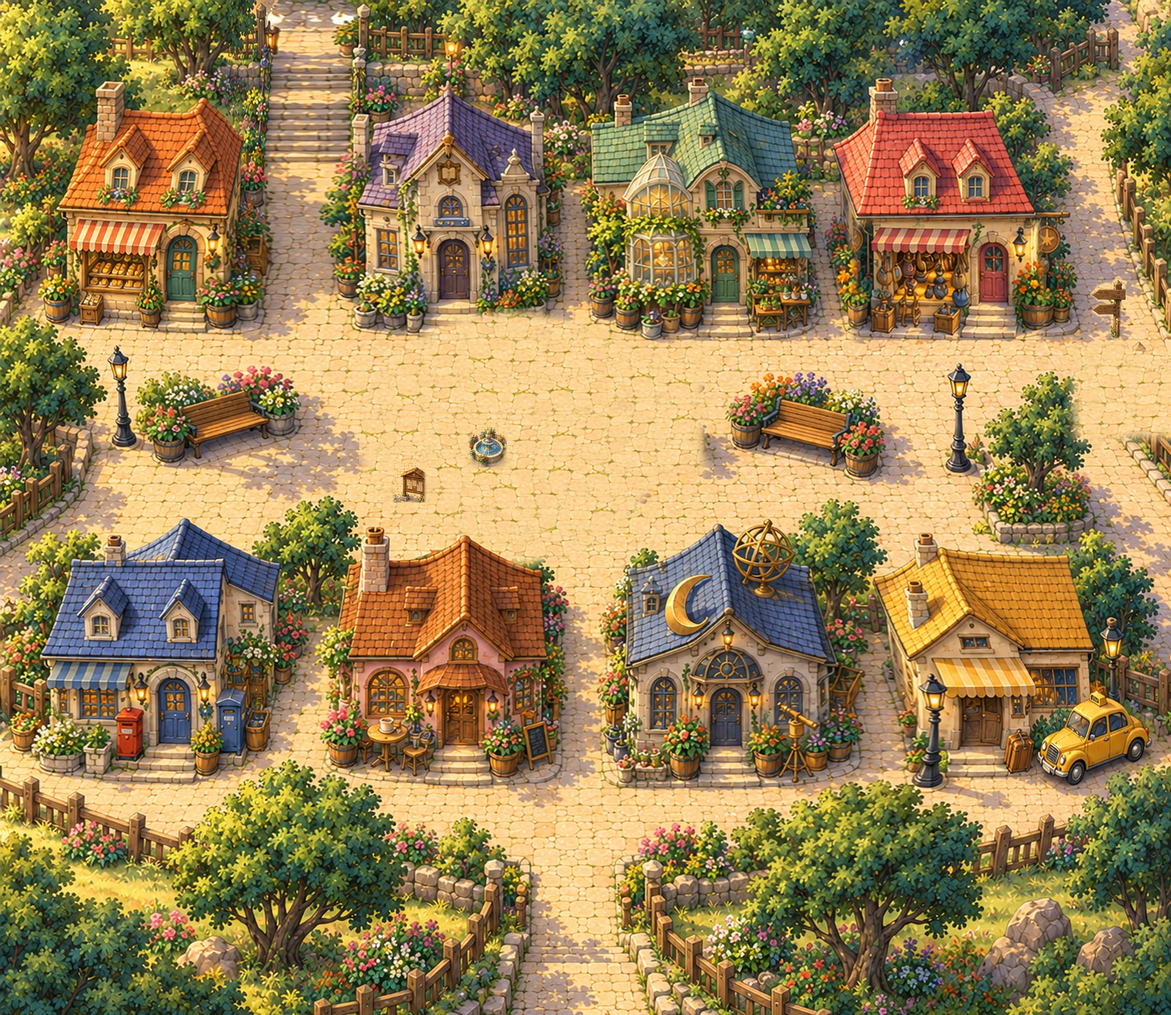
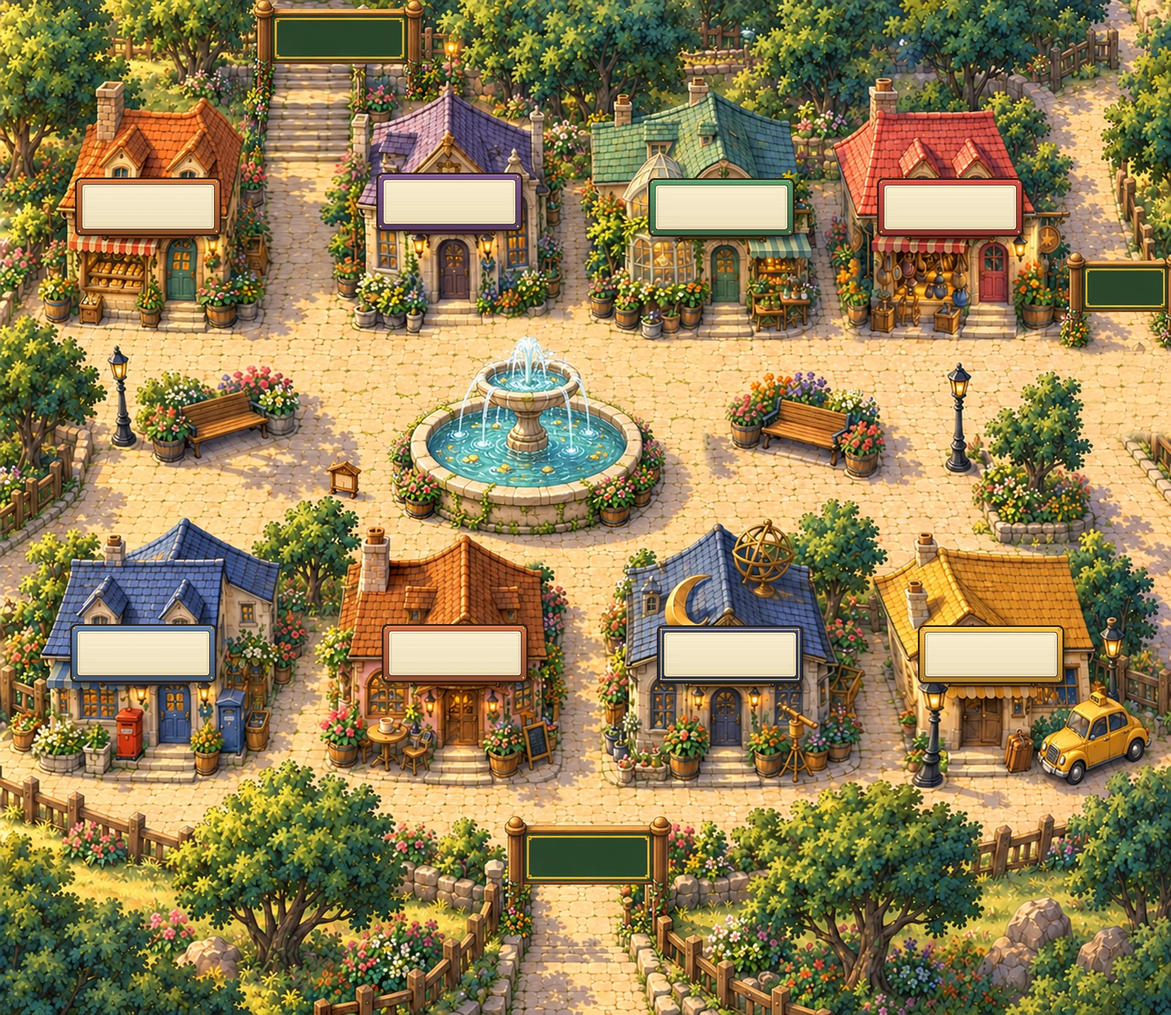
Repaint The Square: lettered signs on every shop and exit, much larger fountain
Claude-Session: https://claude.ai/code/session_01RXeukEbYcVgZLdMoKYXNDk

diff --git a/engine/plate.js b/engine/plate.js
@@ -1,7 +1,7 @@
 'use strict';
 // engine/plate.js — Painted "plate" scenes (32-bit look). A plate replaces the tile/house/object
 // drawing for one map; the tile grid stays as the invisible logic layer (collision, doors, exits, NPCs).
-const PLATES={ town:{src:'art/town.webp',px:64,img:null,ready:false}, row:{src:'art/row.webp',px:64,img:null,ready:false}, hollow:{src:'art/hollow.webp',px:64,img:null,ready:false}, reeds:{src:'art/reeds.webp',px:64,img:null,ready:false}, amyhouse:{src:'art/amyhouse.webp?v=20261030',px:78,img:null,ready:false,square:true,actorScale:1.08}, grands:{src:'art/grands.webp?v=20261030',px:78,img:null,ready:false,square:true}, elliehouse:{src:'art/elliehouse.webp?v=20261030',px:78,img:null,ready:false,square:true,actorScale:1.98}, sundial:{src:'art/sundial.webp',px:64,img:null,ready:false}, school:{src:'art/school.webp',px:64,img:null,ready:false}, cafetorium:{src:'art/cafetorium.webp',px:64,img:null,ready:false}, readroom:{src:'art/readroom.webp',px:64,img:null,ready:false}, stacks:{src:'art/stacks.webp',px:64,img:null,ready:false}, moonclub:{src:'art/moonclub.webp',px:64,img:null,ready:false}, dome:{src:'art/dome.webp',px:64,img:null,ready:false}, gatezero:{src:'art/gatezero.webp',px:64,img:null,ready:false}, library:{src:'art/library.webp?v=20261030',px:78,img:null,ready:false,square:true}, terminal:{src:'art/terminal.webp',px:64,img:null,ready:false}, bakery:{src:'art/bakery.webp?v=20261030',px:78,img:null,ready:false,square:true}, greenhouse:{src:'art/greenhouse.webp?v=20261030',px:78,img:null,ready:false,square:true}, shop:{src:'art/shop.webp?v=20261030',px:78,img:null,ready:false,square:true}, observatory:{src:'art/observatory.webp?v=20261030',px:78,img:null,ready:false,square:true}, post:{src:'art/post.webp?v=20261030',px:78,img:null,ready:false,square:true}, tea:{src:'art/tea.webp?v=20261030',px:78,img:null,ready:false,square:true}, jpark:{src:'art/jpark.webp?v=20261029',px:64,img:null,ready:false}, griffith:{src:'art/griffith.webp',px:64,img:null,ready:false}, taxi:{src:'art/taxi.webp?v=20261030',px:78,img:null,ready:false,square:true}, blvd:{src:'art/blvd.webp',px:64,img:null,ready:false} };
+const PLATES={ town:{src:'art/town.webp?v=20261030b',px:64,img:null,ready:false}, row:{src:'art/row.webp',px:64,img:null,ready:false}, hollow:{src:'art/hollow.webp',px:64,img:null,ready:false}, reeds:{src:'art/reeds.webp',px:64,img:null,ready:false}, amyhouse:{src:'art/amyhouse.webp?v=20261030',px:78,img:null,ready:false,square:true,actorScale:1.08}, grands:{src:'art/grands.webp?v=20261030',px:78,img:null,ready:false,square:true}, elliehouse:{src:'art/elliehouse.webp?v=20261030',px:78,img:null,ready:false,square:true,actorScale:1.98}, sundial:{src:'art/sundial.webp',px:64,img:null,ready:false}, school:{src:'art/school.webp',px:64,img:null,ready:false}, cafetorium:{src:'art/cafetorium.webp',px:64,img:null,ready:false}, readroom:{src:'art/readroom.webp',px:64,img:null,ready:false}, stacks:{src:'art/stacks.webp',px:64,img:null,ready:false}, moonclub:{src:'art/moonclub.webp',px:64,img:null,ready:false}, dome:{src:'art/dome.webp',px:64,img:null,ready:false}, gatezero:{src:'art/gatezero.webp',px:64,img:null,ready:false}, library:{src:'art/library.webp?v=20261030',px:78,img:null,ready:false,square:true}, terminal:{src:'art/terminal.webp',px:64,img:null,ready:false}, bakery:{src:'art/bakery.webp?v=20261030',px:78,img:null,ready:false,square:true}, greenhouse:{src:'art/greenhouse.webp?v=20261030',px:78,img:null,ready:false,square:true}, shop:{src:'art/shop.webp?v=20261030',px:78,img:null,ready:false,square:true}, observatory:{src:'art/observatory.webp?v=20261030',px:78,img:null,ready:false,square:true}, post:{src:'art/post.webp?v=20261030',px:78,img:null,ready:false,square:true}, tea:{src:'art/tea.webp?v=20261030',px:78,img:null,ready:false,square:true}, jpark:{src:'art/jpark.webp?v=20261029',px:64,img:null,ready:false}, griffith:{src:'art/griffith.webp',px:64,img:null,ready:false}, taxi:{src:'art/taxi.webp?v=20261030',px:78,img:null,ready:false,square:true}, blvd:{src:'art/blvd.webp',px:64,img:null,ready:false} };
 PLATES.pier={src:'art/pier.webp?v=20261029',px:64,img:null,ready:false};
 PLATES.studio={src:'art/studio.webp?v=20261029',px:64,img:null,ready:false};
 PLATES.backlot={src:'art/backlot.webp?v=20261029',px:64,img:null,ready:false};
@@ -112,7 +112,44 @@ function drawBreadyJar(cx,by,u,time) {
   R(-9,-15,18,10,OUT); R(-8,-14,16,8,'#f6efdc'); R(-5,-12,2,2,OUT); R(3,-12,2,2,OUT); R(-5,-8,10,2,OUT); R(-6,-7,2,1,OUT); R(4,-7,2,1,OUT);
   ctx.restore();
 }
+// Painted sign boards that the game letters live, so the spelling is always right and the letters stay sharp on a phone.
+// The painting leaves each board blank (tools/town_signs.py). x, y, w, h = the board's writing face in art px (64 per tile);
+// t = one or two lines; light = cream letters on a dark board (the green exit boards), otherwise dark ink on cream.
+const PLATE_SIGNS={ town:[
+  {x:135,y:303,w:216,h:72,t:['CRUMB','BAKERY']},
+  {x:629,y:295,w:216,h:72,t:['HUSH','LIBRARY']},
+  {x:1075,y:304,w:216,h:72,t:['SPROUT','HOUSE']},
+  {x:1450,y:304,w:216,h:72,t:["PENNY'S",'POCKETS']},
+  {x:127,y:1035,w:216,h:72,t:['SNAIL','MAIL']},
+  {x:638,y:1035,w:216,h:72,t:['KETTLE','COTTAGE']},
+  {x:1089,y:1037,w:216,h:72,t:['MOON','CLUB']},
+  {x:1517,y:1037,w:216,h:72,t:['TAXI','CO.']},
+  // exits: north steps to Grump Hollow, south street to Rivituso Row, east opening to the school
+  {x:455,y:33,w:204,h:60,t:['GRUMP','HOLLOW'],light:true},
+  {x:868,y:1376,w:192,h:62,t:['RIVITUSO','ROW'],light:true},
+  {x:1783,y:445,w:123,h:55,t:['SCHOOL'],light:true}
+] };
+function drawPlateSigns(list) {
+  const s=T/64;
+  ctx.save();
+  ctx.textAlign='center'; ctx.textBaseline='middle';
+  for(const b of list) {
+    const n=b.t.length, fw=b.w*s, fh=b.h*s, cx=(b.x+b.w/2)*s, cy=(b.y+b.h/2)*s, lh=fh/n;
+    let size=lh*.86;
+    const font=z=>'bold '+z+'px Georgia, "Times New Roman", serif';
+    ctx.font=font(size);
+    let wide=0; for(const l of b.t) wide=Math.max(wide,ctx.measureText(l).width);
+    if(wide>fw*.9) { size*=fw*.9/wide; ctx.font=font(size); }
+    b.t.forEach((l,i)=>{
+      const y=cy+(i-(n-1)/2)*lh+size*.05, d=Math.max(.5,size*.045);
+      ctx.fillStyle=b.light?'#10241a':'#fff7de'; ctx.fillText(l,cx,y+d);
+      ctx.fillStyle=b.light?'#f6ecc8':'#3b2a1a'; ctx.fillText(l,cx,y);
+    });
+  }
+  ctx.restore();
+}
 function plateLive(map,time) {
+  if(map&&PLATE_SIGNS[map.id]) drawPlateSigns(PLATE_SIGNS[map.id]);
   // Tom's kitchen island: Bready Mercury, except while the squirrels have him (chapter 6, until the Oak boss is beaten).
   if(map&&map.id==='tomhouse'&&!(typeof storyMatch==='function'&&storyMatch({chapter:6,notFlag:'ch6-clear'}))) drawBreadyJar(918*T/78.4,322*T/78.4,1.1*T/78.4,time);
   if(!map||map.id!=='gate00'||typeof infFlag!=='function'||!infFlag('ch11-closed')) return;

diff --git a/data/maps-le.js b/data/maps-le.js
@@ -101,7 +101,7 @@ const LE_AREAS=[
     tag:'Eight doors, one fountain, one place that sells things.',
     eyebrow:'LONG ISLAND / THE SQUARE',
     hint:"Shops up here, Penny's Pockets to the east. Family south. Trouble north.",
-    spawn:{x:11,y:10},
+    spawn:{x:9,y:10},
     paths:[[2,9,29,10],[2,20,27,21],[7,0,8,21],[14,9,15,25],[9,9,13,12]],
     houseRoad:[10,21],
     // Painted plate (art/town.webp, engine/plate.js). The mask is the walk map: '#' blocks, '.' walks. It follows the painted cobble:
@@ -115,12 +115,12 @@ const LE_AREAS=[
       '#######..##################..#',
       '#######..#####.######.#####..#',
       '#######..#####.######.#####..#',
-      '#######..#####.######.#####..#',
+      '#######..#####.######.#####.##',
       '##........................#.##',
-      '##............................',
-      '##..####...........####..###..',
-      '########....#......####.####.#',
-      '##........#..............###.#',
+      '##..........###...............',
+      '##..####...#####...####..###..',
+      '########..#######..####.####.#',
+      '##........######.........###.#',
       '##.................##....###.#',
       '##############..##############',
       '##############..######.#######',
@@ -148,10 +148,10 @@ const LE_AREAS=[
         lines:['The path east goes to Long Island Elementary. The gate is locked.','A sign on it: NO SCHOOL TODAY. Grace says it\'s the best sign in the whole town.'],
         when:[{chapter:5,lines:['The path east goes to Long Island Elementary. The gate is locked.','Amy has the key. Amy has every key.']}]}],
     objects:[
-      ['sign',10,12,1,1,'Town notice',"Eight doors. One of them actually sells things: Penny's Pockets, east end. Look for the coin."],
+      ['sign',9,12,1,1,'Town notice',"Eight doors. One of them actually sells things: Penny's Pockets, east end. Look for the coin."],
       ['sign',6,1,1,1,'North signpost','GRUMP HOLLOW, this way. Mind the mud. Mind the Grump. Mostly the Grump.'],
-      ['sign',16,24,1,1,'South signpost','RIVITUSO ROW, this way. Cookies likely. Quiet unlikely.'],
-      ['fountain',12,11,1,1,'Wish fountain','A coin reads: "Please don\'t wish for more coins."'],
+      ['sign',13,22,1,1,'South signpost','RIVITUSO ROW, this way. Cookies likely. Quiet unlikely.'],
+      ['fountain',11,9,5,4,'Wish fountain','A coin reads: "Please don\'t wish for more coins."'],
       // Placed on the painted props (the benches and their planters, the shop's hanging sign and barrel) so they match the painting.
       ['bench',5,11,2,1,'An important bench','Reserved for people with very important sitting to do.'],
       ['bench',20,11,2,1,'The sunny bench','Warm from the sun. Or from Gus. Hard to say.'],

diff --git a/index.html b/index.html
@@ -1172,7 +1172,7 @@ document.addEventListener('click',function(e){var n=e.target.closest&&e.target.c
 <script src="data/ch18-monsters.js"></script>
 <script src="data/ch19-monsters.js"></script>
 <script src="data/ch20-monsters.js"></script>
-<script src="data/maps-le.js?v=rooms3"></script>
+<script src="data/maps-le.js?v=square1"></script>
 <script src="data/maps-p2.js?v=walk1"></script>
 <script src="data/maps-ch13.js?v=walk1"></script>
 <script src="data/maps-ch17.js?v=walk1"></script>
@@ -1373,12 +1373,12 @@ document.addEventListener('click',function(e){var n=e.target.closest&&e.target.c
 <script src="engine/club-render.js"></script>
 <script src="engine/terminal-render.js"></script>
 <script src="engine/infinity-render.js"></script>
-<script src="engine/plate.js?v=rooms4"></script>
+<script src="engine/plate.js?v=square1"></script>
 <script src="engine/draw.js?v=cover2"></script>
 <script src="engine/intro.js?v=tom4"></script>
 <script src="engine/travel.js?v=amy1"></script>
 <script src="engine/nara.js"></script>
-<script src="engine/story.js?v=rooms2"></script>
+<script src="engine/story.js?v=square1"></script>
 <script src="engine/bench.js"></script>
 <script src="engine/tom-gone.js"></script>
 <script src="engine/benchcall.js"></script>
@@ -1401,7 +1401,7 @@ document.addEventListener('click',function(e){var n=e.target.closest&&e.target.c
 <script src="data/scenes-ch17.js"></script>
 <script src="data/scenes-ch18.js"></script>
 <script src="data/scenes-ch19.js"></script>
-<script src="data/scenes-ch20.js"></script>
+<script src="data/scenes-ch20.js?v=square1"></script>
 <script src="engine/ch12-render.js"></script>
 <script src="engine/ch13-render.js"></script>
 <script src="engine/ch17-render.js"></script>

diff --git a/engine/story.js b/engine/story.js
@@ -129,7 +129,7 @@ const CHAPTERS=[
       :{lines:['Airport? Tom. Dinner is at six. Five means four thirty.']}},
   // Chapter 16 (tragedy): the photograph in the Square. The scene itself runs on a party override (Tom, Grace, Rose, Amy out front, TNB and Nara on
   // the bench); once Deedee and Boppy are stone and the girls run for Cab 7, these are the rules: Tom, Amy, TNB and Nara fight, nobody else.
-  {n:16,title:'The Amber Eclipse',start:{map:'town',x:11,y:12},
+  {n:16,title:'The Amber Eclipse',start:{map:'town',x:11,y:13},
     party:{lock:['tom','amy','tnb','nara'],allow:['amy','tnb','nara'],bar:['deedee','boppy','grace','rose'],homes:{amy:'any',deedee:'any',boppy:'any',tnb:'any',nara:'any'}},
     noFlight:()=>flag('ch16-done')?{lines:['Chapter 17 is coming. Long Island is under glass, and the cab stand has coffee nobody is drinking.']}
       :{lines:['Airport? Tom. Not today. Not this.']}},

diff --git a/data/scenes-ch20.js b/data/scenes-ch20.js
@@ -242,7 +242,7 @@ SCENES.ch20Calm=()=>[
 // ---------- Epilogue, Long Island: the mail, the train ----------
 SCENES.ch20Epi1=()=>[
   {flag:'ch20-epi',value:'pending'},
-  {call:()=>{ sfx.travel&&sfx.travel(); ch17Place('town',11,12,'up'); }},
+  {call:()=>{ sfx.travel&&sfx.travel(); ch17Place('town',11,13,'up'); }},
   {fade:'in',time:1.1},
   {talk:'Tom',lines:['Long Island is a town again. The fountain is running. The library door is open. Someone has already started a pie, which is how you know it is real.']},
   {talk:'Rose',lines:['Look! Look who is delivering!']},

diff --git a/tools/town_signs.py b/tools/town_signs.py
@@ -1,0 +1,101 @@
+#!/usr/bin/env python3
+"""Build art/town.webp (The Square) from Tom's generated painting.
+
+Usage: python3 tools/town_signs.py <source.png> [out.webp]
+
+1. Scales the painting to 1920 x 1664 (30 x 26 tiles at 64 px).
+2. Repaints the eight shop sign boards larger (the generator drew them about 124 x 33 px, too small to read
+   on a phone). Each new board is a blank cream face in a frame the colour of its building. The game letters
+   every board live (engine/plate.js, PLATE_SIGNS), so spelling and sharpness never depend on the painting.
+The three green exit boards are left as painted.
+"""
+import sys
+from PIL import Image, ImageDraw, ImageFilter
+import numpy as np
+
+SRC = sys.argv[1]
+OUT = sys.argv[2] if len(sys.argv) > 2 else 'art/town.webp'
+im = Image.open(SRC).convert('RGB').resize((1920, 1664), Image.LANCZOS)
+
+# (id, old face rect x0,y0,x1,y1 in 1920 px, frame colour)
+SHOPS = [
+    ('bakery',   (181, 348, 305, 381), (176, 98, 52)),
+    ('library',  (677, 341, 798, 373), (110, 76, 126)),
+    ('greenhouse', (1123, 351, 1243, 382), (74, 134, 92)),
+    ('shop',     (1498, 349, 1618, 382), (184, 66, 58)),
+    ('post',     (175, 1079, 296, 1113), (84, 112, 146)),
+    ('tea',      (684, 1079, 808, 1113), (178, 96, 60)),
+    ('observatory', (1135, 1080, 1259, 1115), (40, 58, 108)),
+    ('taxi',     (1564, 1080, 1686, 1115), (214, 160, 58)),
+]
+W, H, FR = 240, 96, 12        # outer board, frame thickness (face is 216 x 72)
+SS = 4                         # supersampling
+
+
+def shade(c, k):
+    return tuple(max(0, min(255, int(v * k))) for v in c)
+
+
+def board(frame, gold=False):
+    w, h = W * SS, H * SS
+    img = Image.new('RGBA', (w, h), (0, 0, 0, 0))
+    d = ImageDraw.Draw(img)
+    r = 10 * SS
+    d.rounded_rectangle((0, 0, w - 1, h - 1), r, fill=(42, 28, 18, 255))
+    # frame with a vertical light-to-dark gradient
+    fr = Image.new('RGBA', (w, h))
+    fd = ImageDraw.Draw(fr)
+    for y in range(h):
+        t = y / h
+        fd.line([(0, y), (w, y)], fill=shade(frame, 1.18 - 0.4 * t) + (255,))
+    mask = Image.new('L', (w, h), 0)
+    ImageDraw.Draw(mask).rounded_rectangle((3 * SS, 3 * SS, w - 3 * SS - 1, h - 3 * SS - 1), r - 3 * SS, fill=255)
+    img.paste(fr, (0, 0), mask)
+    d = ImageDraw.Draw(img)
+    d.line([(8 * SS, 4 * SS), (w - 8 * SS, 4 * SS)], fill=shade(frame, 1.45) + (255,), width=2 * SS)   # top highlight
+    if gold:
+        d.rounded_rectangle((6 * SS, 6 * SS, w - 6 * SS - 1, h - 6 * SS - 1), r - 6 * SS, outline=(222, 184, 92, 255), width=2 * SS)
+    # face
+    fx0, fy0, fx1, fy1 = FR * SS, FR * SS, w - FR * SS, h - FR * SS
+    d.rounded_rectangle((fx0 - SS, fy0 - SS, fx1 + SS, fy1 + SS), 5 * SS, fill=(60, 40, 24, 255))
+    face = Image.new('RGBA', (fx1 - fx0, fy1 - fy0))
+    fd = ImageDraw.Draw(face)
+    for y in range(face.height):
+        t = y / face.height
+        fd.line([(0, y), (face.width, y)], fill=(int(250 - 14 * t), int(238 - 16 * t), int(208 - 22 * t), 255))
+    fm = Image.new('L', face.size, 0)
+    ImageDraw.Draw(fm).rounded_rectangle((0, 0, face.width - 1, face.height - 1), 4 * SS, fill=255)
+    img.paste(face, (fx0, fy0), fm)
+    d = ImageDraw.Draw(img)
+    d.rounded_rectangle((fx0 + 3 * SS, fy0 + 3 * SS, fx1 - 3 * SS, fy1 - 3 * SS), 3 * SS, outline=(214, 192, 148, 255), width=SS)
+    # bolts
+    for bx, by in ((7, 7), (W - 8, 7), (7, H - 8), (W - 8, H - 8)):
+        cx, cy = bx * SS, by * SS
+        d.ellipse((cx - 2.2 * SS, cy - 2.2 * SS, cx + 2.2 * SS, cy + 2.2 * SS), fill=(232, 196, 106, 255), outline=(60, 40, 20, 255), width=SS // 2)
+    # faint grain on the frame
+    arr = np.array(img).astype(int)
+    rng = np.random.default_rng(7)
+    noise = rng.integers(-6, 7, size=(h, 1, 1))
+    arr[..., :3] = np.clip(arr[..., :3] + noise * (arr[..., 3:4] > 0), 0, 255)
+    img = Image.fromarray(arr.astype('uint8'), 'RGBA')
+    return img.resize((W, H), Image.LANCZOS)
+
+
+base = im.convert('RGBA')
+for sid, (x0, y0, x1, y1), frame in SHOPS:
+    cx = (x0 + x1) // 2
+    bottom = y1 + 6
+    left, top = cx - W // 2, bottom - H
+    b = board(frame, gold=(sid == 'observatory'))
+    sh = Image.new('RGBA', base.size, (0, 0, 0, 0))
+    a = b.split()[3].point(lambda v: int(v * 0.38))
+    sh.paste(Image.new('RGBA', b.size, (40, 24, 8, 255)), (left + 5, top + 8), a)
+    sh = sh.filter(ImageFilter.GaussianBlur(4))
+    base = Image.alpha_composite(base, sh)
+    base.alpha_composite(b, (left, top))
+    print(sid, 'face rect (art px):', left + FR, top + FR, left + W - FR, top + H - FR)
+
+out = base.convert('RGB')
+out.save(OUT, quality=88, method=6)
+out.save(OUT.rsplit('.', 1)[0] + '_preview.png')
+print('wrote', OUT, out.size)

diff --git a/docs/CHANGES.md b/docs/CHANGES.md
@@ -1,3 +1,12 @@
+## 2026-10-30: The Square repainted: every shop and exit labeled, a much larger fountain
+- Tom sent a new painting of The Square (`docs/reference/town_v2_from_tom.png`, 1347 x 1168, scaled to 1920 x 1664 = 30 x 26 tiles at 64 px) generated from the prompt in the Project doc `claude/square-redo.md`. Built into `art/town.webp` by `tools/town_signs.py`.
+- Labels: the generator drew the eight shop boards too small to read on a phone (about 124 x 33 px), so the script repaints them as 240 x 96 px boards (cream face, frame in each building's colour). The three green exit boards are Tom's. All eleven boards are lettered live by `drawPlateSigns` in `engine/plate.js` (`PLATE_SIGNS.town`, face rects in art px): CRUMB BAKERY, HUSH LIBRARY, SPROUT HOUSE, PENNY'S POCKETS, SNAIL MAIL, KETTLE COTTAGE, MOON CLUB, TAXI CO.; exits GRUMP HOLLOW (north steps), RIVITUSO ROW (south street), SCHOOL (east opening). The exits are painted open; the fallen branch and school gate are still drawn over them by the story gates, so the labels show even while closed. Change a name by editing `PLATE_SIGNS`, no re-paint.
+- Fountain: now about 6 x 5 tiles (was under one tile). Object `fountain` is (11,9) 5 x 4; mask also blocks (10,11) (10,12) (16,11). Row 13 stays walkable, so the south street still joins the plaza and Tom stands in front of the basin. `Town notice` moved to (9,12). `South signpost` moved to (13,22) (left post of the new board); `North signpost` (6,1) and `East signpost` (28,8) already sit under their boards. Mask (28,7) now solid (east board). Town spawn (9,10).
+- Moved off the fountain: chapter 16 start `engine/story.js` (11,12) to (11,13); chapter 20 arrival `data/scenes-ch20.js` ch17Place('town',11,12) to (11,13). `data/bonus-nine-scoops.js` nsFountain uses row 13 and still works. A scan of every scene for coordinates inside the new solid tiles found only other maps.
+- Differences from the prompt (accepted): fountain sits about 125 px right of the spec (x 671 to 1051, y 552 to 877); exit boards are smaller than specified (north 204 x 60, south 192 x 62, east 123 x 55 faces); south board is about 85 px higher.
+- Known: no foreground layer, so Tom walking through the south or north exit draws over the board while he passes under it.
+- Tests: `tools/reach_test.py town` 0 fails; `tools/smoke.py` FAILS: []; `tools/camera_clamp_test.py` FAILS: []; `tools/tap_test.py` town OK in every mode (full run longer than my time limit, no failures before it stopped). Portrait (390 x 844 at 3x) and landscape shots: `tools/shots/sq-*.png` (not committed). Script tags bumped to `?v=square1` (plate.js, maps-le.js, story.js, scenes-ch20.js).
+
 ## 2026-10-30: Painted Chronos-Leviathan (chapter 20 boss)
 - Tom pasted one image with the word "leviathan". It was a flat picture with a checkerboard baked into the pixels (no transparency), so the background was keyed out (edge-connected and enclosed light grey pockets, then light remnants near the cut edge) and saved as `tools/sprite-bake/src/foe-leviathan-v1.png`. If a clean transparent sheet arrives later, drop it over that file and rebake with the same flags.
 - Painted, shows in a test fight; old sprite stays as fallback until Tom approves on his phone.
